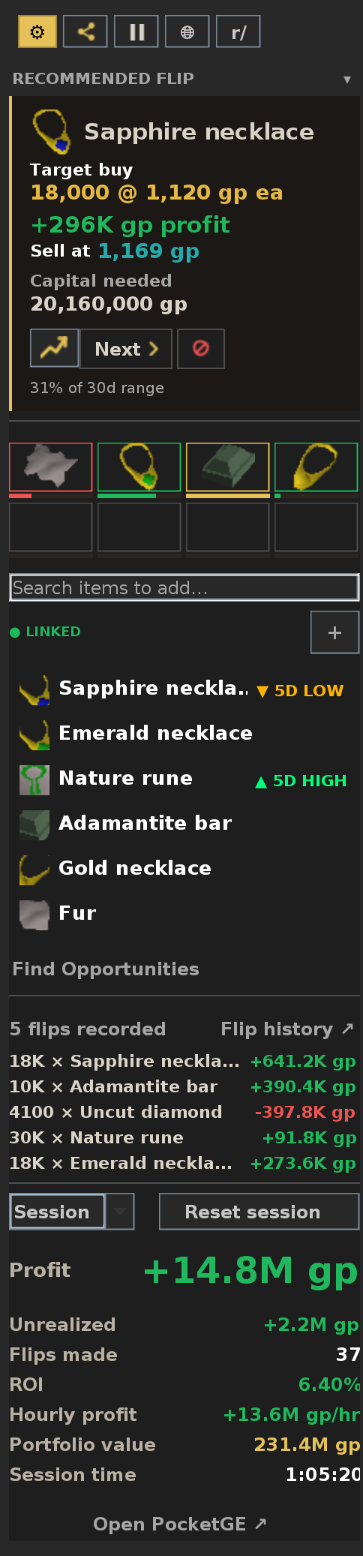
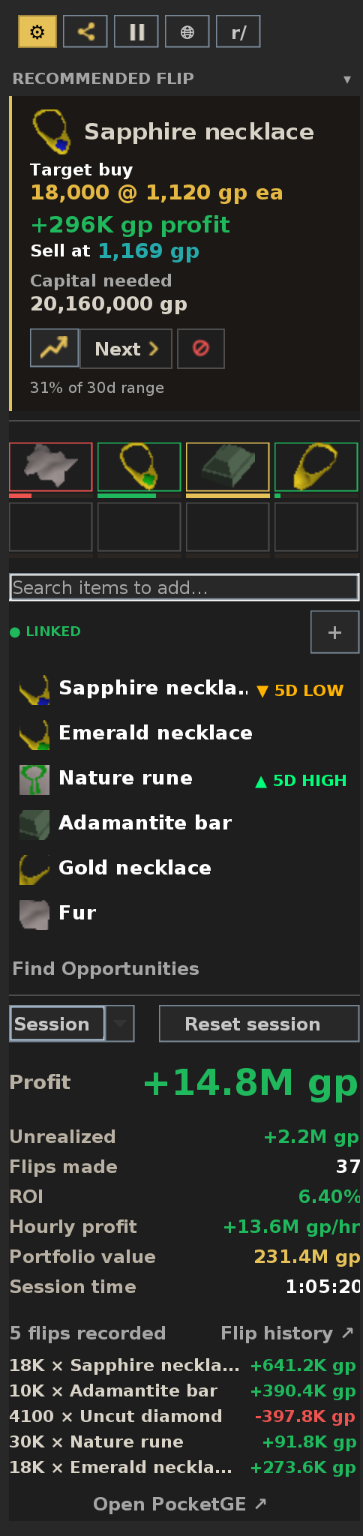
Put the flip list under the stats, not above them
Totals first, then the flips that make them up. The recent-flip rows
were sitting between the watchlist and the profit figure they belong to,
so the one number the panel exists for arrived after a list of its own
components — and the section that explains a total read as unrelated to
it.

Reported from the client running side by side with Flipping Copilot,
which has this order; it is the better one and for a plain reason, not
just familiarity: you read the headline, then look down for the working.

Screenshots re-rendered.

Claude-Session: https://claude.ai/code/session_01CrbbnpxzzXajkmFNwfAgTw

diff --git a/src/main/java/com/pocketge/tracker/MainPanel.java b/src/main/java/com/pocketge/tracker/MainPanel.java
@@ -204,9 +204,13 @@ public class MainPanel extends PluginPanel
 		scrollContent.add(favoritesPanel);
 		scrollContent.add(finderPanel);
 		scrollContent.add(sectionDivider());
-		scrollContent.add(historyPanel);
-		scrollContent.add(sectionDivider());
+		/* Stats, then the flips that make them up — the totals first and the
+		   working underneath, which is the order you read them in. The other
+		   way round, the recent-flip rows sat between the watchlist and the
+		   profit figure they belong to, so the one number the panel is about
+		   arrived after a list of its own components. */
 		scrollContent.add(statsHeader);
+		scrollContent.add(historyPanel);
 		scrollContent.add(Box.createVerticalStrut(6));
 		scrollContent.add(bottomBar());
 
